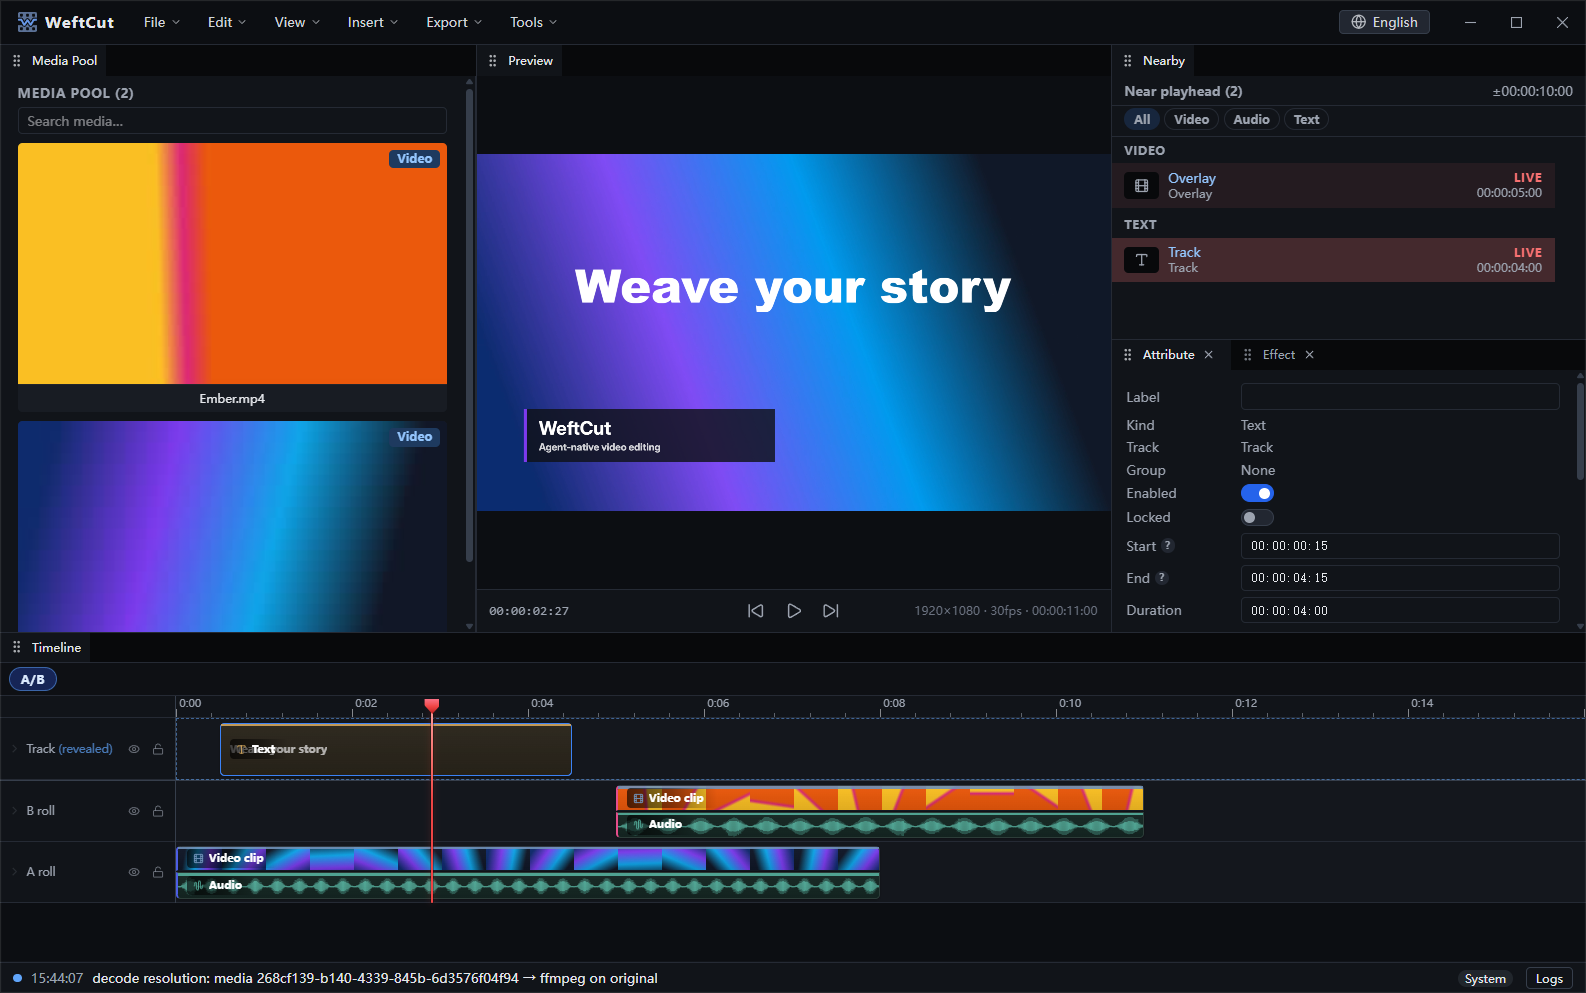
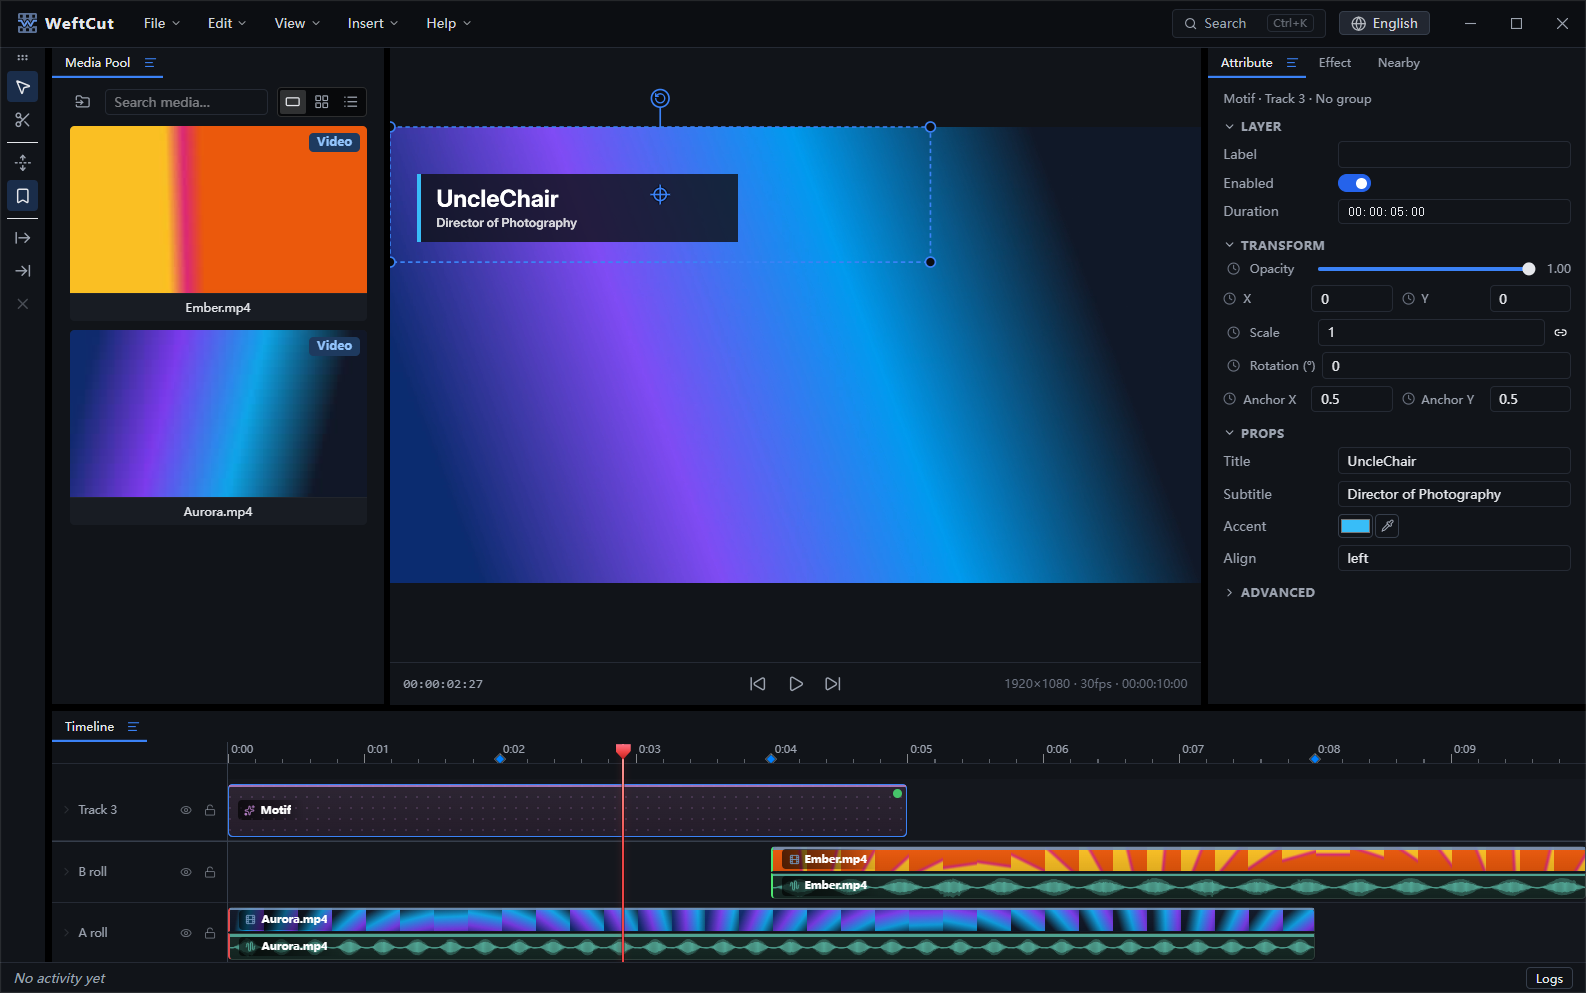
docs(readme): the screenshots meet the UI they document again
The three assets were shot in July against a layout that no longer exists. Since
then the editor gained the dockview workspace and the Quick Actions strip, the
A/B-roll rows became kind-agnostic combined lanes carrying a clip and its paired
audio together, markers landed on the ruler, and a Motif's params grew a panel of
their own. Every region of the old editor still was wrong.

Re-shot at the same 1586x993 the previous assets used, so nothing in the README
reflows. The hero still now has the lower third selected, which is what puts the
Motif prop surface — title, subtitle, accent — on screen next to the frame it
renders; the palette still queries `au` because that one string reaches
COMMANDS, MEDIA, CLIPS and MARKERS at once, which is the breadth the feature
list claims two paragraphs above it.

agent-mode.png is new, and the README gains a paragraph for it. The GIF shows an
agent editing the editor; agent mode is the other half of the story — the human's
UI folding down to preview, scrub and a record of what the agent is doing, with
every checkpoint one click from being restored. Nothing in the README showed that
surface before.

The GIF's storyboard changed shape, not just content. It used to trim the B-roll
video and its audio as two calls and undo twice; the auto-paired A/V group now
fans a trim out across both layers as ONE history entry, so the second undo would
have eaten the restyle that came before it. It cuts to 7.5s rather than 9s
[…]

diff --git a/README.md b/README.md
@@ -24,6 +24,12 @@ do — it is also a complete editor for humans.
 lower third live, trimming the B-roll, then undoing — every edit lands in the UI
 in real time.</em></p>
 
+For a longer run, an agent can put the editor into **agent mode**: the UI folds
+down to preview, scrub and a record of what the agent is doing, and every batch
+boundary it checkpoints is one click away from being restored.
+
+![Agent mode — the record panel while an agent works](docs/assets/agent-mode.png)
+
 ## Features
 
 - **Agent-native editing** — a built-in MCP server (streamable HTTP) exposes
